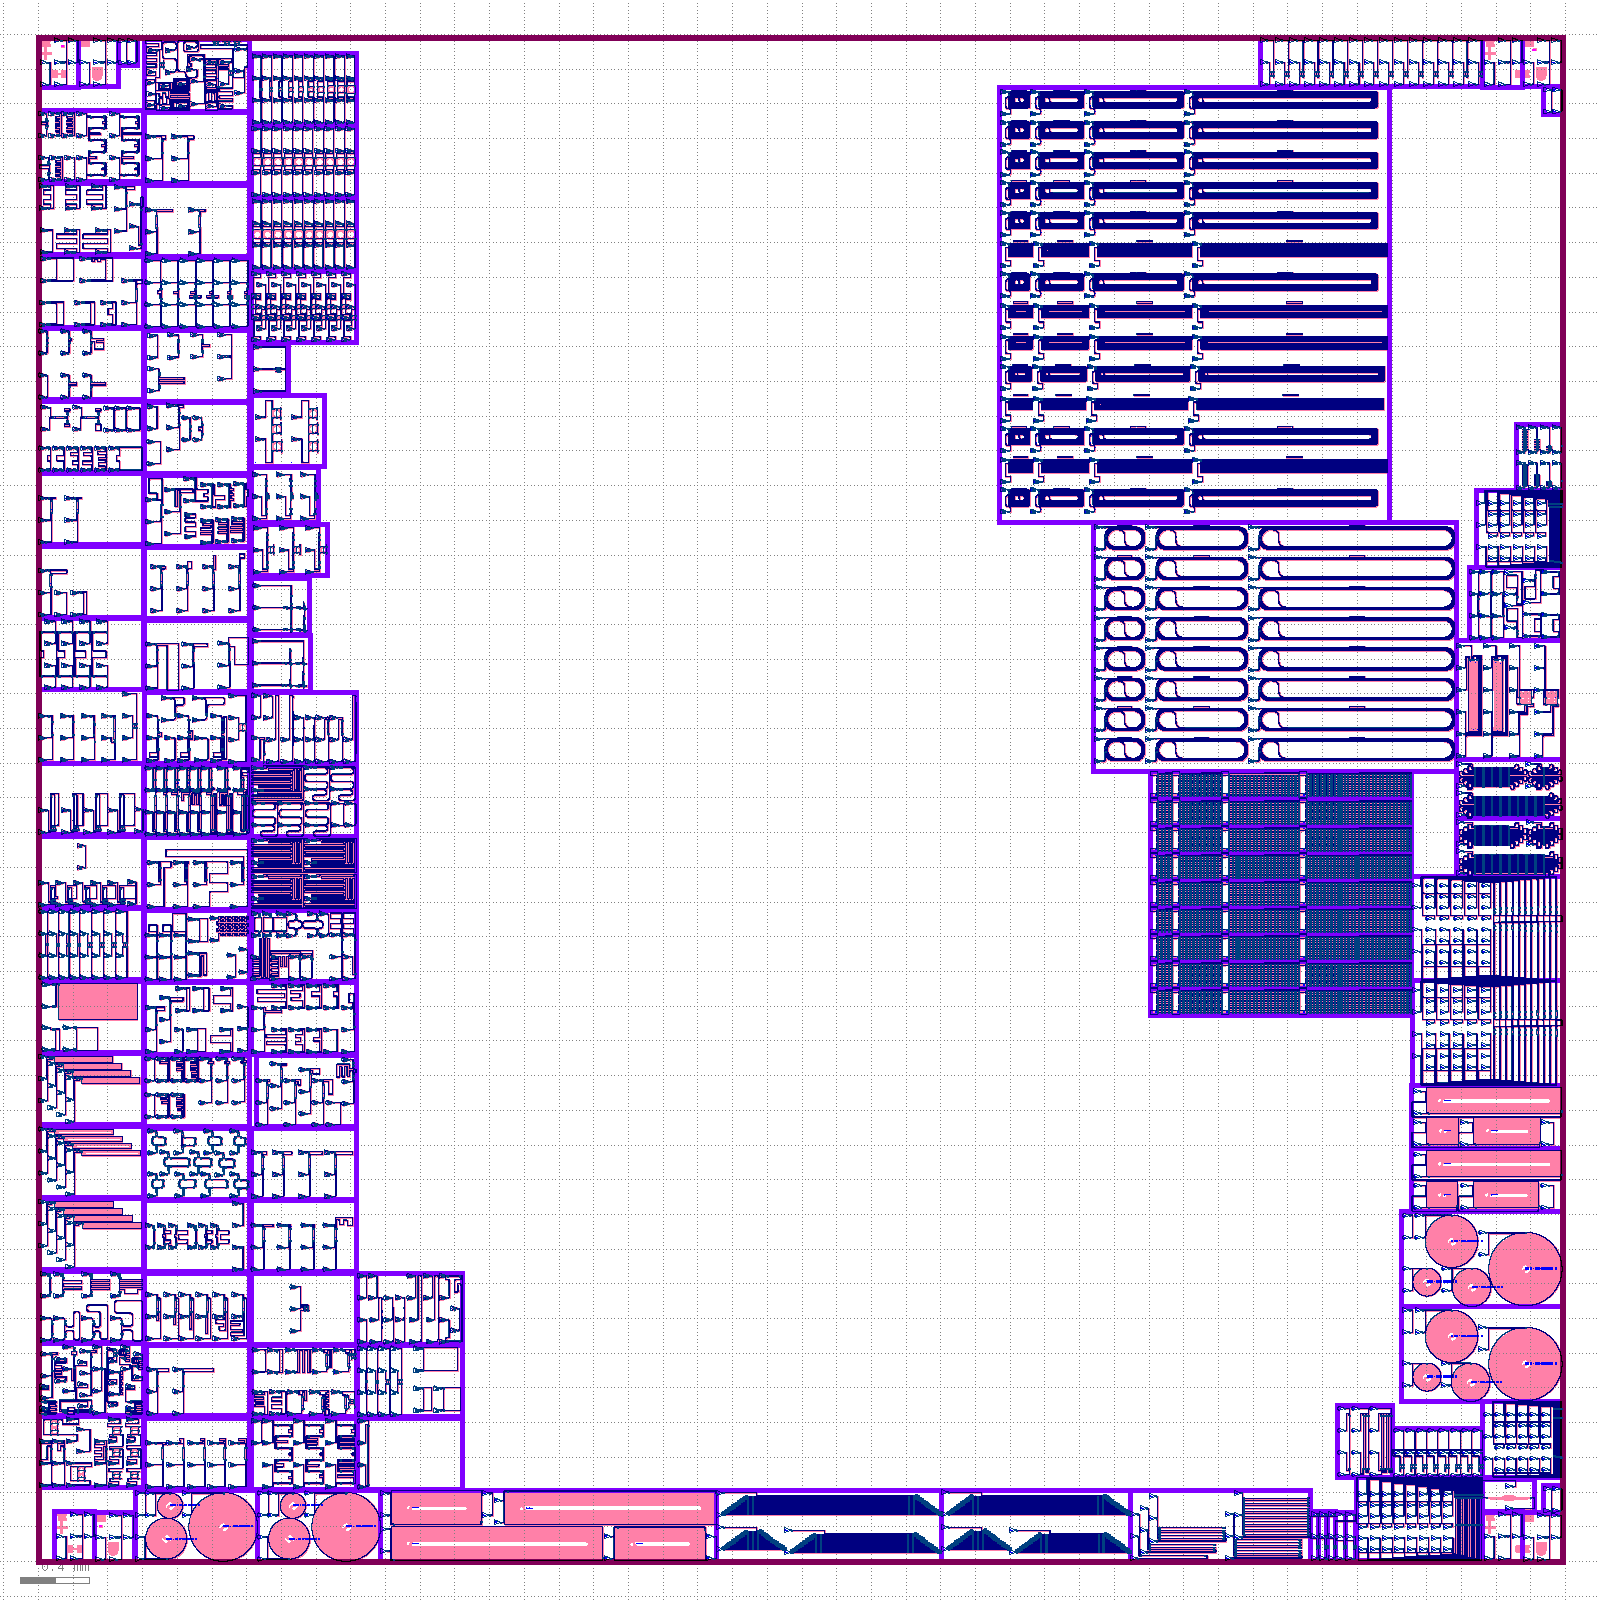
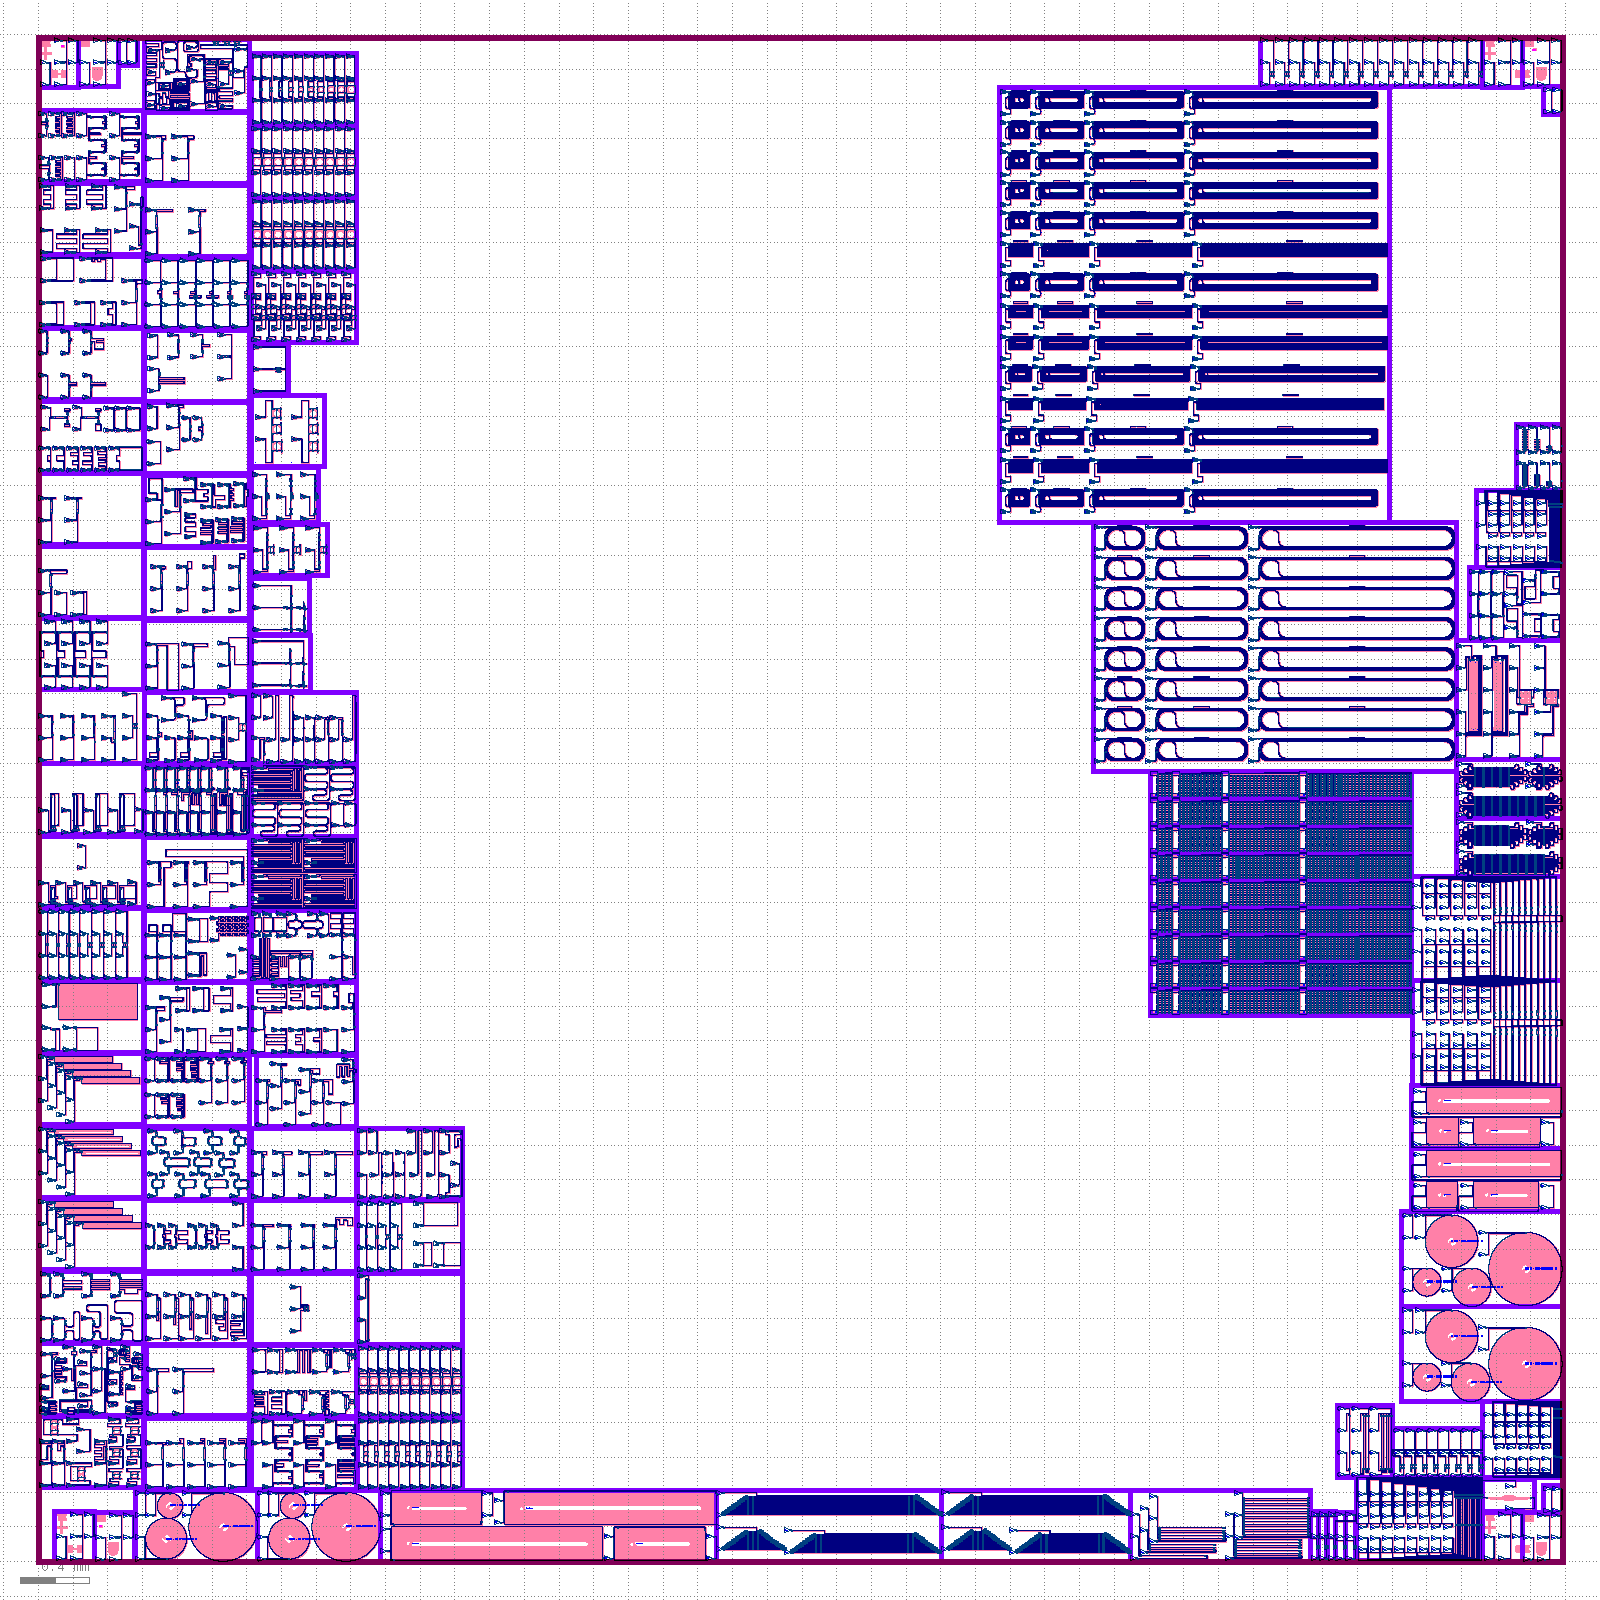
Aggregation layout: https://github.com/SiEPIC/openEBL-2026-05/actions/runs/25763284876/artifacts/6956298001

Changed region(s): [[0.2188, 0.6875, 0.3125, 0.9375]]

diff --git a/README.md b/README.md
@@ -91,5 +91,5 @@ Will be added here.
 
 Click on the following link to download the EBeam.oas merged layout file:
 <!-- start-link -->
-https://github.com/SiEPIC/openEBL-2026-05/actions/runs/25761145464/artifacts/6955433130
+https://github.com/SiEPIC/openEBL-2026-05/actions/runs/25763284876/artifacts/6956298001
 <!-- end-link -->